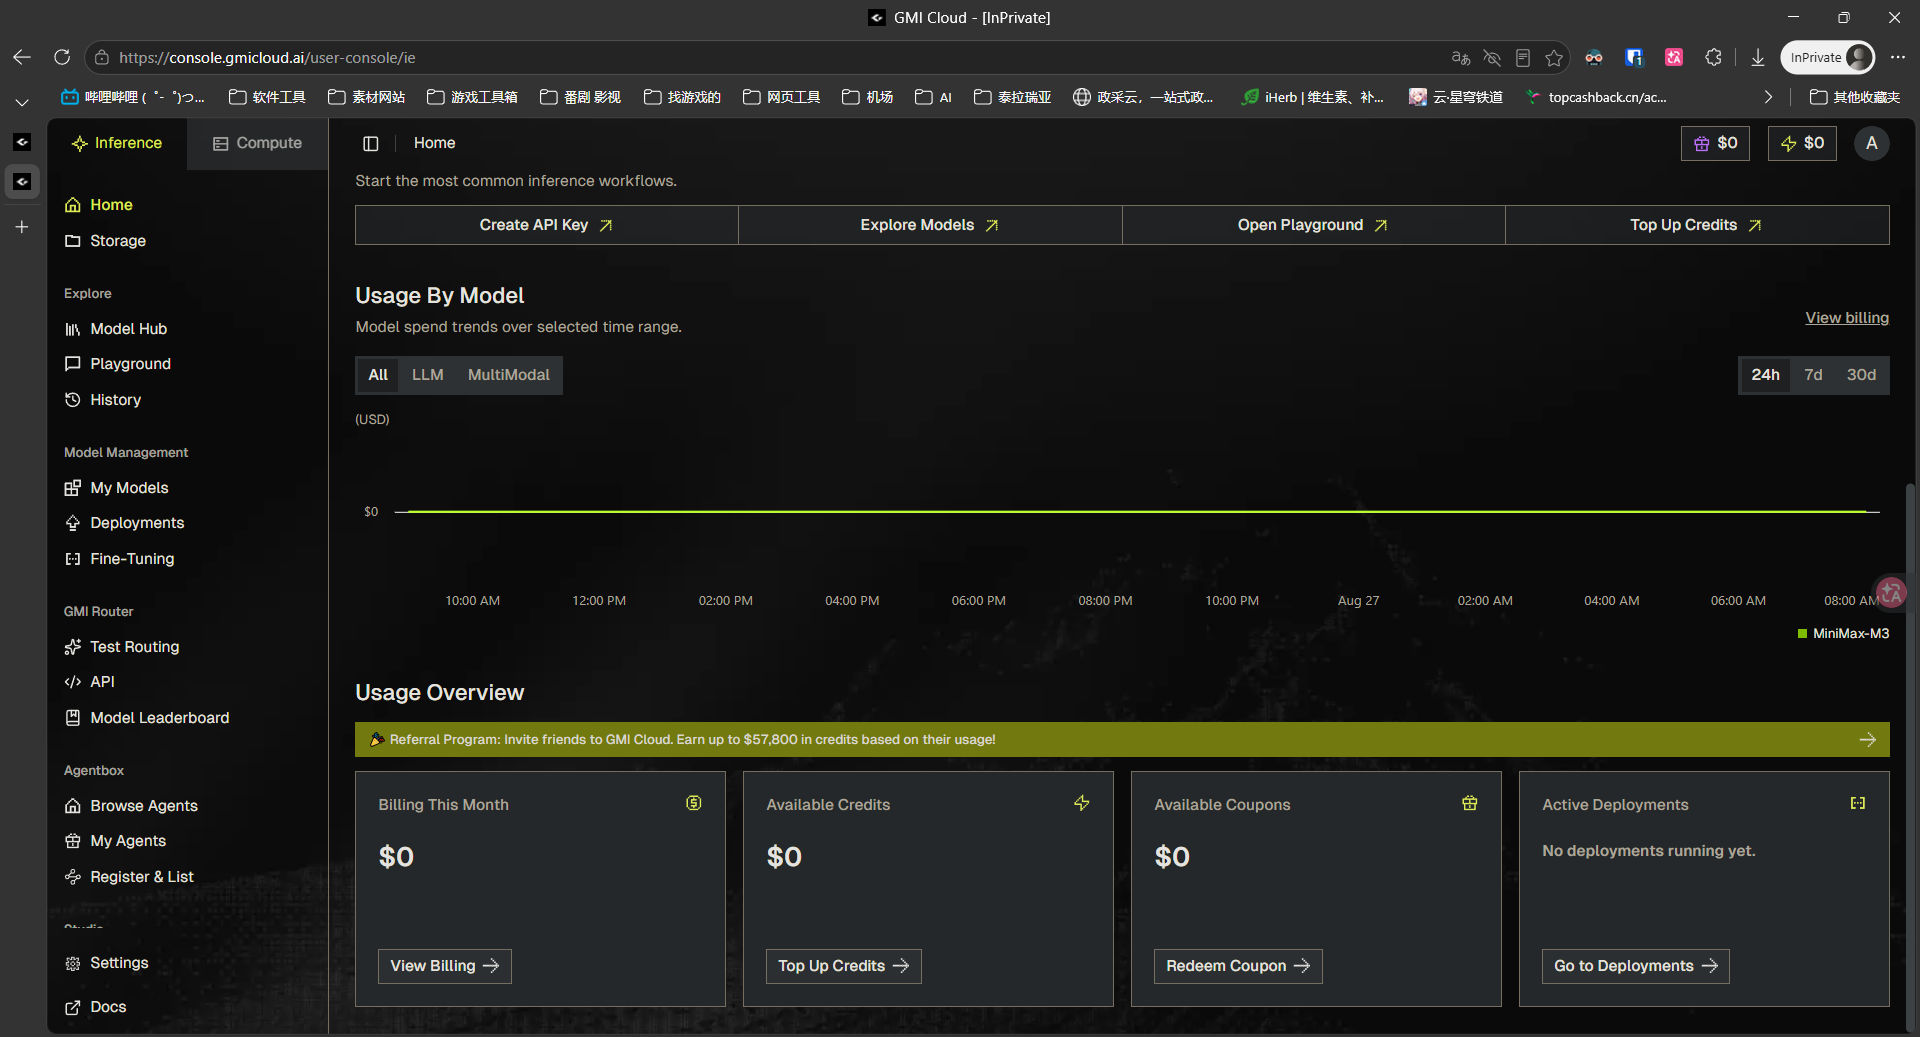
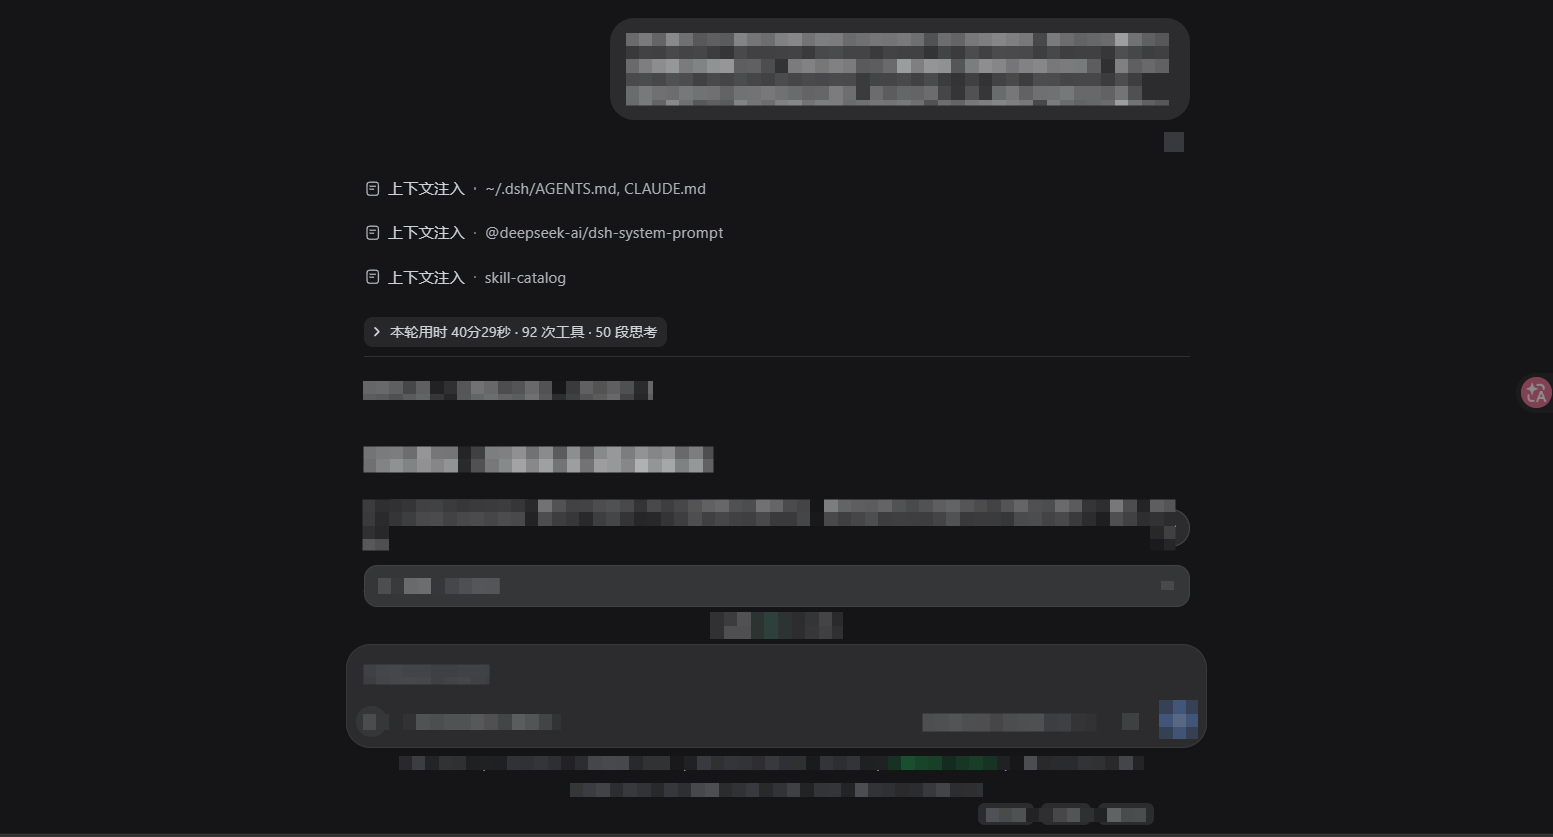
refactor: 改名为 @UNscientific-9/dsh-turnfold
- 仓库: UNscientific-9/turn-collapse → UNscientific-9/dsh-turnfold
- 包: @dsh-plan/turn-collapse → @UNscientific-9/dsh-turnfold
- 浏览器内 CSS tag、console 文本、cordis 字典名、cordis patch、build 标识
  全部同步更新
- localStorage key (dsh.turn-collapse.v1 / .membership.v1 / .autoLoad / .debug)
  保持不变，避免老用户刷新丢折叠状态
- topic 'turn-collapse' → 'dsh-turnfold'
- docs/screenshot.png: 用最新截图替换（git 视角下老图被删、新图入库）

旧仓库 URL 6 个月内自动 redirect 到新 URL

diff --git a/plugin/src/client/index.ts b/plugin/src/client/index.ts
@@ -1,5 +1,5 @@
 /**
- * Browser half: the turn-collapse plugin.
+ * Browser half: the dsh-turnfold plugin.
  *
  * Registers the turn-activity conversation definition, its chat renderer and
  * dictionaries, and owns the DOM projector lifecycle.
@@ -26,7 +26,7 @@ export const CLIENT_VERSION = '0.2.8';
 export function apply(ctx: Context): void {
   // One-shot load marker: makes "which bundle is the browser running"
   // answerable at a glance during deploys.
-  console.info(`[dsh.turn-collapse] v${CLIENT_VERSION} loaded`);
+  console.info(`[dsh.turnfold] v${CLIENT_VERSION} loaded`);
   ensureStyles(document, CLIENT_VERSION);
   // Restore persisted membership snapshots before any render can record
   // fresher facts (existing entries win in hydrateMembership).
@@ -36,7 +36,7 @@ export function apply(ctx: Context): void {
 
   ctx.effect(
     () => ctx.locale.register(NS, { zh, en }),
-    'turn-collapse: dictionaries',
+    'dsh-turnfold: dictionaries',
   );
 
   ctx.slots.inject('conversation.chat.node', () =>
@@ -118,6 +118,6 @@ export function apply(ctx: Context): void {
         projector.stop();
       };
     },
-    'turn-collapse: projector + auto-load',
+    'dsh-turnfold: projector + auto-load',
   );
 }

diff --git a/plugin/src/client/styles.ts b/plugin/src/client/styles.ts
@@ -100,7 +100,7 @@ export const TURN_ACTIVITY_CSS = `
 }
 `;
 
-export const CSS_TAG_ID = '@dsh-plan/turn-collapse/styles';
+export const CSS_TAG_ID = '@UNscientific-9/dsh-turnfold/styles';
 
 /** Inject the stylesheet once; idempotent across HMR / plugin restarts. */
 export function ensureStyles(document: Document, version = ''): void {
@@ -110,7 +110,7 @@ export function ensureStyles(document: Document, version = ''): void {
     return;
   }
   const tag = document.createElement('style');
-  tag.dataset.plugin = '@dsh-plan/turn-collapse';
+  tag.dataset.plugin = '@UNscientific-9/dsh-turnfold';
   tag.dataset.pluginCss = CSS_TAG_ID;
   tag.textContent = TURN_ACTIVITY_CSS;
   if (version !== '') tag.dataset.pluginVersion = version;

diff --git a/plugin/src/client/store.ts b/plugin/src/client/store.ts
@@ -29,7 +29,7 @@ export function createCollapseStore(persistence: CollapsePersistence): CollapseS
         // A subscriber bug must never break the store, but it must be visible
         // so it doesn't masquerade as a "the collapse stopped working" symptom.
         // eslint-disable-next-line no-console
-        console.error('turn-collapse: subscriber threw', error);
+        console.error('dsh-turnfold: subscriber threw', error);
       }
     }
   };

diff --git a/plugin/src/client/projector.ts b/plugin/src/client/projector.ts
@@ -967,7 +967,7 @@ export function createProjector(
       applyPlan(column, scrollerOf(column), rows, summaries, isCollapsed, compensate, null);
     }
     if (debugEnabled && debugReports.length > 0) {
-      console.info('[dsh.turn-collapse] reconcile', { flowCount: columns.length, perColumn: debugReports });
+      console.info('[dsh.turnfold] reconcile', { flowCount: columns.length, perColumn: debugReports });
     }
   };
 

diff --git a/plugin/src/index.ts b/plugin/src/index.ts
@@ -1,5 +1,5 @@
 /**
- * @dsh-plan/turn-collapse — host half.
+ * @UNscientific-9/dsh-turnfold — host half.
  *
  * The feature is browser-side only: the whole plugin lives in the `./client`
  * entry. This host half exists so the cordis row has a node-side plugin shell;

diff --git a/README.md b/README.md
@@ -1,10 +1,10 @@
 [English](README.md) | [中文](README.zh-CN.md)
 
-# turn-collapse
+# dsh-turnfold
 
 [![License: MIT](https://img.shields.io/badge/License-MIT-yellow.svg)](LICENSE)
 [![DSH](https://img.shields.io/badge/DSH-0.1.1--rc.2-blue)](https://github.com/deepseek-ai/dsh-client-runtime)
-[![Release](https://img.shields.io/badge/Release-v0.2.8-green)](https://github.com/UNscientific-9/turn-collapse/releases/tag/v0.2.8)
+[![Release](https://img.shields.io/badge/Release-v0.2.8-green)](https://github.com/UNscientific-9/dsh-turnfold/releases/tag/v0.2.8)
 
 > A Codex/ZCode-style turn activity collapse plugin for [DSH Web](https://github.com/deepseek-ai/dsh-client-runtime). While the agent works, thinking / tool calls / narration stay fully visible. **When a turn completes, the activity collapses into a one-line summary** so the final answer becomes the visual focus.
 
@@ -44,12 +44,12 @@ Final answer...
    ```json
    {
      "dependencies": {
-       "@dsh-plan/turn-collapse": "file:D:/path/to/dsh-plan-turn-collapse-0.2.8.tgz"
+       "@UNscientific-9/dsh-turnfold": "file:D:/path/to/dsh-turnfold-0.2.8.tgz"
      }
    }
    ```
 3. In the profile directory, run `pnpm install`, then restart DSH web and hard-refresh the browser (`Ctrl+Shift+R` / `Cmd+Shift+R`).
-4. The browser console should show `[dsh.turn-collapse] v0.2.8 loaded` on load.
+4. The browser console should show `[dsh.turnfold] v0.2.8 loaded` on load.
 
 ## Compatibility & uninstall
 

diff --git a/README.zh-CN.md b/README.zh-CN.md
@@ -1,10 +1,10 @@
 [English](README.md) | [中文](README.zh-CN.md)
 
-# turn-collapse
+# dsh-turnfold
 
 [![License: MIT](https://img.shields.io/badge/License-MIT-yellow.svg)](LICENSE)
 [![DSH](https://img.shields.io/badge/DSH-0.1.1--rc.2-blue)](https://github.com/deepseek-ai/dsh-client-runtime)
-[![Release](https://img.shields.io/badge/Release-v0.2.8-green)](https://github.com/UNscientific-9/turn-collapse/releases/tag/v0.2.8)
+[![Release](https://img.shields.io/badge/Release-v0.2.8-green)](https://github.com/UNscientific-9/dsh-turnfold/releases/tag/v0.2.8)
 
 > [DSH Web](https://github.com/deepseek-ai/dsh-client-runtime) 的轮次折叠插件：agent 工作时，thinking / 工具调用 / 中间叙述保持完整流式可见；**一轮（turn）结束后，自动把活动块收纳成一行摘要**，让最终回答成为视觉主体。点击摘要可随时展开/收起，刷新后恢复选择。
 
@@ -44,12 +44,12 @@
    ```json
    {
      "dependencies": {
-       "@dsh-plan/turn-collapse": "file:D:/path/to/dsh-plan-turn-collapse-0.2.8.tgz"
+       "@UNscientific-9/dsh-turnfold": "file:D:/path/to/dsh-turnfold-0.2.8.tgz"
      }
    }
    ```
 3. 在 profile 目录执行 `pnpm install`，重启 DSH web，浏览器硬刷新（`Ctrl+Shift+R` / `Cmd+Shift+R`）。
-4. 浏览器控制台应出现 `[dsh.turn-collapse] v0.2.8 loaded`。
+4. 浏览器控制台应出现 `[dsh.turnfold] v0.2.8 loaded`。
 
 ## 兼容与卸载
 
